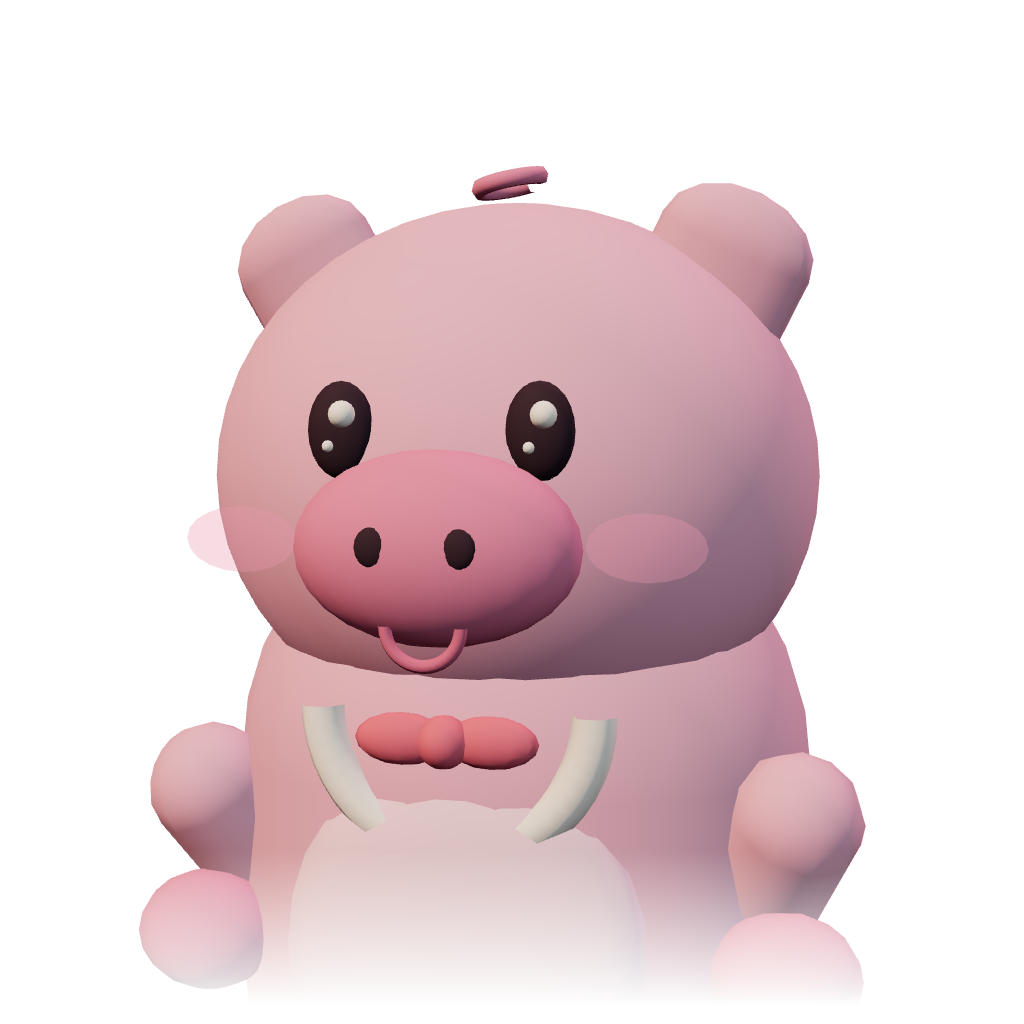
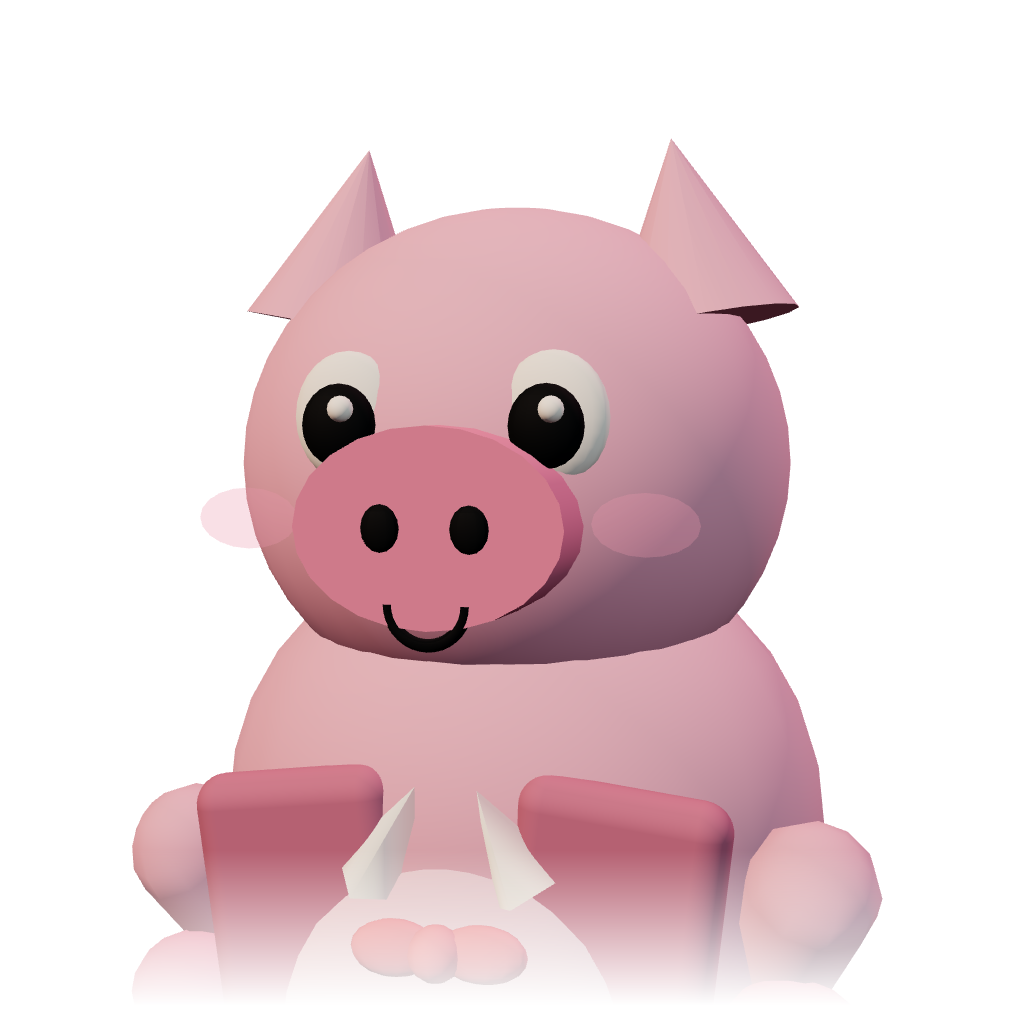
fix: restore previous cute pig model

Changed region(s): [[0.125, 0.125, 0.875, 0.9688]]

diff --git a/src/scripts/room.ts b/src/scripts/room.ts
@@ -465,77 +465,75 @@ export function createCat(): Character {
 
 export function createPig(): Character {
   const group = new THREE.Group() as Character;
-  const pink = characterMaterial(0xf6b3c5);
-  const pinkLight = characterMaterial(0xffd1dc);
-  const pinkDark = characterMaterial(0xe88ca6);
-  const rose = characterMaterial(0xd97790);
-  const eye = characterMaterial(0x49333d);
+  const pink = characterMaterial(0xf5adc0);
+  const pinkLight = characterMaterial(0xffc7d5);
+  const pinkDark = characterMaterial(0xe887a2);
+  const rose = characterMaterial(0xc8758d);
+  const ink = characterMaterial(C.ink);
   const cream = characterMaterial(0xfff1e5);
-  const coral = characterMaterial(0xea7988);
-  const blush = new THREE.MeshBasicMaterial({ color: 0xf27f9a, transparent: true, opacity: 0.34, depthWrite: false });
-  const tablet = new THREE.MeshBasicMaterial({ color: 0x355564 });
-  const tabletLine = new THREE.MeshBasicMaterial({ color: 0x94e2dc });
-  const tabletAccent = new THREE.MeshBasicMaterial({ color: 0xf1c27b });
+  const coral = characterMaterial(0xe97783);
+  const blush = new THREE.MeshBasicMaterial({ color: 0xf17d98, transparent: true, opacity: 0.3, depthWrite: false });
+  const tablet = new THREE.MeshBasicMaterial({ color: 0x355464 });
+  const tabletLine = new THREE.MeshBasicMaterial({ color: 0x8de3dc });
+  const tabletAccent = new THREE.MeshBasicMaterial({ color: 0xf2c37b });
 
-  addMesh(group, new THREE.CapsuleGeometry(0.38, 0.3, 8, 22), pink, [0, 0.56, 0], [0, 0, 0], [1.02, 1, 0.88]);
-  addMesh(group, new THREE.SphereGeometry(0.23, 22, 14), pinkLight, [0, 0.52, 0.28], [0, 0, 0], [1, 1.05, 0.38]);
-  addMesh(group, new THREE.SphereGeometry(0.15, 18, 12), pinkLight, [0, 0.4, 0.32], [0, 0, 0], [1.08, 0.82, 0.26]);
+  addMesh(group, new THREE.CapsuleGeometry(0.4, 0.34, 8, 22), pink, [0, 0.62, 0], [0, 0, 0], [1.05, 0.98, 0.9]);
+  addMesh(group, new THREE.SphereGeometry(0.24, 24, 16), pinkLight, [0, 0.56, 0.31], [0, 0, 0], [1, 1.05, 0.42]);
+  addMesh(group, new THREE.SphereGeometry(0.16, 20, 14), pinkLight, [0, 0.43, 0.36], [0, 0, 0], [1.12, 0.8, 0.26]);
+
+  addMesh(group, new RoundedBoxGeometry(0.27, 0.46, 0.08, 4, 0.06), rose, [-0.19, 0.66, 0.31], [0.04, 0, 0.12]);
+  addMesh(group, new RoundedBoxGeometry(0.27, 0.46, 0.08, 4, 0.06), rose, [0.19, 0.66, 0.31], [0.04, 0, -0.12]);
+  addMesh(group, new THREE.ConeGeometry(0.065, 0.14, 3), cream, [-0.07, 0.82, 0.36], [0, 0, -0.45]);
+  addMesh(group, new THREE.ConeGeometry(0.065, 0.14, 3), cream, [0.07, 0.82, 0.36], [0, 0, 0.45]);
+  addMesh(group, new THREE.SphereGeometry(0.05, 14, 10), coral, [-0.055, 0.69, 0.39], [0, 0, 0], [1.15, 0.72, 0.5]);
+  addMesh(group, new THREE.SphereGeometry(0.05, 14, 10), coral, [0.055, 0.69, 0.39], [0, 0, 0], [1.15, 0.72, 0.5]);
+  addMesh(group, new THREE.SphereGeometry(0.035, 12, 8), coral, [0, 0.69, 0.4]);
 
   const head = new THREE.Group();
-  head.position.set(0, 1.09, 0.04);
+  head.position.set(0, 1.27, 0.04);
   group.add(head);
-  addMesh(head, new THREE.SphereGeometry(0.37, 34, 24), pink, [0, 0, 0], [0, 0, 0], [1.08, 0.96, 0.96]);
+  addMesh(head, new THREE.SphereGeometry(0.36, 32, 22), pink, [0, 0, 0], [0, 0, 0], [1.04, 0.96, 0.96]);
+  addMesh(head, new THREE.ConeGeometry(0.13, 0.25, 16), pink, [-0.235, 0.31, 0], [0, 0.18, -0.18]);
+  addMesh(head, new THREE.ConeGeometry(0.13, 0.25, 16), pink, [0.235, 0.31, 0], [0, -0.18, 0.18]);
+  addMesh(head, new THREE.ConeGeometry(0.075, 0.15, 16), pinkDark, [-0.235, 0.3, 0.025], [0, 0.18, -0.18]);
+  addMesh(head, new THREE.ConeGeometry(0.075, 0.15, 16), pinkDark, [0.235, 0.3, 0.025], [0, -0.18, 0.18]);
 
-  const earGeo = new THREE.CapsuleGeometry(0.09, 0.12, 4, 12);
-  const earL = addMesh(head, earGeo, pink, [-0.27, 0.25, 0.01], [0.16, 0, 0.48], [1.15, 0.82, 0.5]);
-  const earR = addMesh(head, earGeo.clone(), pink, [0.27, 0.25, 0.01], [0.16, 0, -0.48], [1.15, 0.82, 0.5]);
-  addMesh(earL, new THREE.CapsuleGeometry(0.052, 0.075, 4, 10), pinkDark, [0, 0.015, 0.045], [0, 0, 0], [1, 0.9, 0.28]);
-  addMesh(earR, new THREE.CapsuleGeometry(0.052, 0.075, 4, 10), pinkDark, [0, 0.015, 0.045], [0, 0, 0], [1, 0.9, 0.28]);
+  addMesh(head, new THREE.SphereGeometry(0.07, 18, 14), cream, [-0.13, 0.065, 0.3], [0, 0, 0], [1, 1.16, 0.48]);
+  addMesh(head, new THREE.SphereGeometry(0.07, 18, 14), cream, [0.13, 0.065, 0.3], [0, 0, 0], [1, 1.16, 0.48]);
+  addMesh(head, new THREE.SphereGeometry(0.047, 16, 12), ink, [-0.13, 0.055, 0.335], [0, 0, 0], [1, 1.08, 0.62]);
+  addMesh(head, new THREE.SphereGeometry(0.047, 16, 12), ink, [0.13, 0.055, 0.335], [0, 0, 0], [1, 1.08, 0.62]);
+  addMesh(head, new THREE.SphereGeometry(0.016, 12, 8), cream, [-0.115, 0.075, 0.37]);
+  addMesh(head, new THREE.SphereGeometry(0.016, 12, 8), cream, [0.145, 0.075, 0.37]);
 
-  const curl = addMesh(head, new THREE.TorusGeometry(0.055, 0.012, 6, 20, Math.PI * 1.55), pinkDark, [0, 0.38, 0.02], [Math.PI / 2, 0.2, 0.2]);
-  curl.scale.set(0.8, 0.8, 1);
+  addMesh(head, new THREE.CircleGeometry(0.065, 20), blush, [-0.25, -0.06, 0.335], [0, 0, 0], [1, 0.58, 1]);
+  addMesh(head, new THREE.CircleGeometry(0.065, 20), blush, [0.25, -0.06, 0.335], [0, 0, 0], [1, 0.58, 1]);
 
-  addMesh(head, new THREE.SphereGeometry(0.047, 16, 12), eye, [-0.12, 0.065, 0.333], [0, 0, 0], [0.88, 1.22, 0.5]);
-  addMesh(head, new THREE.SphereGeometry(0.047, 16, 12), eye, [0.12, 0.065, 0.333], [0, 0, 0], [0.88, 1.22, 0.5]);
-  addMesh(head, new THREE.SphereGeometry(0.016, 12, 8), cream, [-0.108, 0.084, 0.364]);
-  addMesh(head, new THREE.SphereGeometry(0.016, 12, 8), cream, [0.132, 0.084, 0.364]);
-  addMesh(head, new THREE.SphereGeometry(0.007, 10, 6), cream, [-0.125, 0.047, 0.365]);
-  addMesh(head, new THREE.SphereGeometry(0.007, 10, 6), cream, [0.115, 0.047, 0.365]);
+  addMesh(head, new THREE.CylinderGeometry(0.155, 0.155, 0.1, 24), pinkDark, [0, -0.065, 0.345], [Math.PI / 2, 0, 0], [1.08, 1, 0.78]);
+  addMesh(head, new THREE.SphereGeometry(0.024, 12, 8), ink, [-0.055, -0.065, 0.4], [0, 0, 0], [1, 1.2, 0.45]);
+  addMesh(head, new THREE.SphereGeometry(0.024, 12, 8), ink, [0.055, -0.065, 0.4], [0, 0, 0], [1, 1.2, 0.45]);
+  addMesh(head, new THREE.TorusGeometry(0.048, 0.008, 6, 18, Math.PI), ink, [0, -0.155, 0.39], [0, 0, Math.PI]);
 
-  addMesh(head, new THREE.CircleGeometry(0.07, 20), blush, [-0.245, -0.065, 0.34], [0, 0, 0], [1, 0.56, 1]);
-  addMesh(head, new THREE.CircleGeometry(0.07, 20), blush, [0.245, -0.065, 0.34], [0, 0, 0], [1, 0.56, 1]);
+  addMesh(group, new THREE.CapsuleGeometry(0.09, 0.2, 4, 10), pink, [-0.38, 0.66, 0.12], [0.58, 0, 0.42]);
+  addMesh(group, new THREE.CapsuleGeometry(0.09, 0.2, 4, 10), pink, [0.38, 0.66, 0.12], [0.58, 0, -0.42]);
+  addMesh(group, new THREE.SphereGeometry(0.1, 14, 10), pinkDark, [-0.4, 0.55, 0.2], [0, 0, 0], [1, 0.82, 0.82]);
+  addMesh(group, new THREE.SphereGeometry(0.1, 14, 10), pinkDark, [0.4, 0.55, 0.2], [0, 0, 0], [1, 0.82, 0.82]);
+  addMesh(group, new THREE.CapsuleGeometry(0.135, 0.16, 4, 10), pink, [-0.23, 0.16, 0.04], [0, 0, 0.04]);
+  addMesh(group, new THREE.CapsuleGeometry(0.135, 0.16, 4, 10), pink, [0.23, 0.16, 0.04], [0, 0, -0.04]);
+  addMesh(group, new THREE.SphereGeometry(0.14, 16, 10), pinkDark, [-0.23, 0.045, 0.12], [0, 0, 0], [1.15, 0.48, 1.25]);
+  addMesh(group, new THREE.SphereGeometry(0.14, 16, 10), pinkDark, [0.23, 0.045, 0.12], [0, 0, 0], [1.15, 0.48, 1.25]);
 
-  addMesh(head, new THREE.SphereGeometry(0.155, 22, 14), pinkDark, [0, -0.07, 0.345], [0, 0, 0], [1.12, 0.74, 0.58]);
-  addMesh(head, new THREE.SphereGeometry(0.022, 12, 8), eye, [-0.05, -0.064, 0.425], [0, 0, 0], [1, 1.08, 0.4]);
-  addMesh(head, new THREE.SphereGeometry(0.022, 12, 8), eye, [0.05, -0.064, 0.425], [0, 0, 0], [1, 1.08, 0.4]);
-  addMesh(head, new THREE.TorusGeometry(0.045, 0.008, 6, 18, Math.PI), rose, [0, -0.155, 0.397], [0, 0, Math.PI]);
-
-  addMesh(group, new THREE.CapsuleGeometry(0.085, 0.19, 4, 10), pink, [-0.35, 0.6, 0.11], [0.56, 0, 0.4]);
-  addMesh(group, new THREE.CapsuleGeometry(0.085, 0.19, 4, 10), pink, [0.35, 0.6, 0.11], [0.56, 0, -0.4]);
-  addMesh(group, new THREE.SphereGeometry(0.095, 14, 10), pinkDark, [-0.38, 0.49, 0.19], [0, 0, 0], [1, 0.82, 0.82]);
-  addMesh(group, new THREE.SphereGeometry(0.095, 14, 10), pinkDark, [0.38, 0.49, 0.19], [0, 0, 0], [1, 0.82, 0.82]);
-  addMesh(group, new THREE.CapsuleGeometry(0.125, 0.14, 4, 10), pink, [-0.18, 0.14, 0.03]);
-  addMesh(group, new THREE.CapsuleGeometry(0.125, 0.14, 4, 10), pink, [0.18, 0.14, 0.03]);
-  addMesh(group, new THREE.SphereGeometry(0.13, 16, 10), pinkDark, [-0.18, 0.035, 0.1], [0, 0, 0], [1.12, 0.48, 1.2]);
-  addMesh(group, new THREE.SphereGeometry(0.13, 16, 10), pinkDark, [0.18, 0.035, 0.1], [0, 0, 0], [1.12, 0.48, 1.2]);
-
-  addMesh(group, new THREE.TorusGeometry(0.17, 0.028, 6, 24, Math.PI), cream, [0, 0.82, 0.31], [0, 0, Math.PI]);
-  addMesh(group, new THREE.SphereGeometry(0.045, 12, 8), coral, [-0.055, 0.79, 0.35], [0, 0, 0], [1.3, 0.7, 0.5]);
-  addMesh(group, new THREE.SphereGeometry(0.045, 12, 8), coral, [0.055, 0.79, 0.35], [0, 0, 0], [1.3, 0.7, 0.5]);
-  addMesh(group, new THREE.SphereGeometry(0.032, 12, 8), coral, [0, 0.79, 0.36]);
-
-  const tail = addMesh(group, new THREE.TorusGeometry(0.075, 0.02, 8, 20, Math.PI * 1.45), pinkDark, [0, 0.58, -0.43], [Math.PI / 2, 0.3, 0]);
+  const tail = addMesh(group, new THREE.TorusGeometry(0.08, 0.022, 8, 24, Math.PI * 1.45), pinkDark, [0, 0.64, -0.43], [Math.PI / 2, 0.3, 0]);
   tail.scale.set(0.9, 0.9, 0.8);
 
   const board = new THREE.Group();
-  board.position.set(0.47, 0.69, 0.38);
+  board.position.set(0.48, 0.78, 0.38);
   board.rotation.set(-0.12, -0.18, -0.12);
   group.add(board);
-  place(new THREE.Mesh(new RoundedBoxGeometry(0.32, 0.4, 0.05, 4, 0.045), rose), board, [0, 0, 0]);
-  addMesh(board, new THREE.PlaneGeometry(0.24, 0.29), tablet, [0, 0, 0.031]);
-  addMesh(board, new THREE.BoxGeometry(0.16, 0.016, 0.012), tabletLine, [0, 0.07, 0.04]);
-  addMesh(board, new THREE.BoxGeometry(0.11, 0.013, 0.012), tabletAccent, [-0.025, 0.02, 0.04]);
-  addMesh(board, new THREE.BoxGeometry(0.14, 0.013, 0.012), tabletLine, [0, -0.03, 0.04]);
+  place(new THREE.Mesh(new RoundedBoxGeometry(0.34, 0.42, 0.05, 4, 0.045), rose), board, [0, 0, 0]);
+  addMesh(board, new THREE.PlaneGeometry(0.26, 0.3), tablet, [0, 0, 0.031]);
+  addMesh(board, new THREE.BoxGeometry(0.17, 0.016, 0.012), tabletLine, [0, 0.075, 0.04]);
+  addMesh(board, new THREE.BoxGeometry(0.12, 0.013, 0.012), tabletAccent, [-0.025, 0.02, 0.04]);
+  addMesh(board, new THREE.BoxGeometry(0.15, 0.013, 0.012), tabletLine, [0, -0.03, 0.04]);
 
   group.userData.parts = { head, board, tail, body: group };
   return finishCharacter(group, 'pig');
